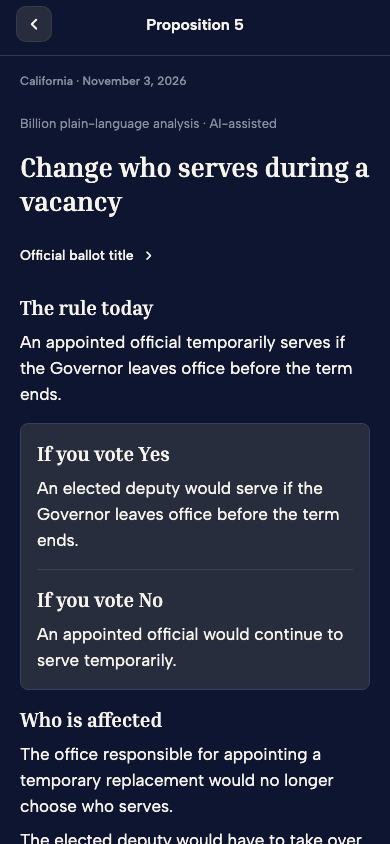
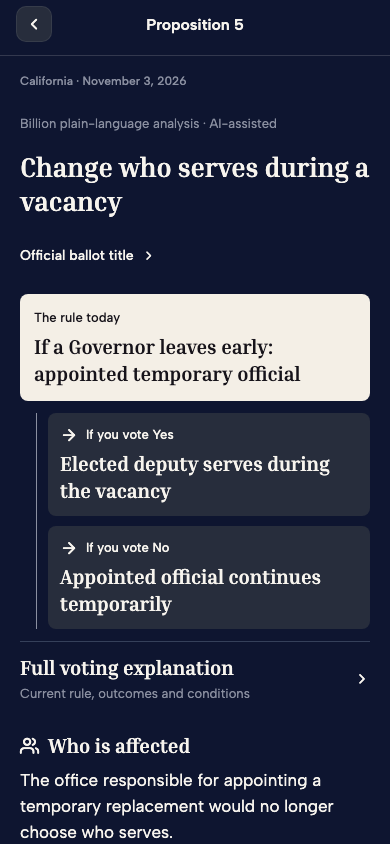
Show reviewed proposition consequences as a neutral decision map

Changed region(s): [[0.0308, 0.3389, 0.9538, 1.0]]

diff --git a/apps/expo/src/components/ballot-evidence/PropositionConsequences.tsx b/apps/expo/src/components/ballot-evidence/PropositionConsequences.tsx
@@ -3,6 +3,7 @@ import { Linking, Pressable, StyleSheet, View } from "react-native";
 
 import type { RouterOutputs } from "@acme/api";
 
+import type { IconName } from "~/components/ui/Icon";
 import { Icon } from "~/components/ui";
 import { fontBody, fontEditorial, DigestPalette as P, sp } from "~/styles";
 import { BallotText as Text } from "./BallotText";
@@ -14,16 +15,42 @@ type Claim = Analysis["yes"];
 
 export function PropositionConsequences({ analysis }: { analysis: Analysis }) {
   const [titleOpen, setTitleOpen] = useState(false);
-  const section = (title: string, claims: Claim[]) => (
+  const section = (title: string, claims: Claim[], icon?: IconName) => (
     <View style={s.section}>
-      <Text accessibilityRole="header" style={s.heading}>
-        {title}
-      </Text>
+      <View style={s.sectionHeading}>
+        {icon && (
+          <View
+            accessibilityElementsHidden
+            importantForAccessibility="no-hide-descendants"
+          >
+            <Icon name={icon} size={19} color={P.inkOnNight} />
+          </View>
+        )}
+        <Text accessibilityRole="header" style={s.heading}>
+          {title}
+        </Text>
+      </View>
       {claims.map((claim, index) => (
         <View key={index} style={s.claim}>
           <Text style={s.body}>{claim.text}</Text>
         </View>
       ))}
+    </View>
+  );
+  const outcome = (vote: "Yes" | "No", claim: Claim) => (
+    <View style={s.mapOutcome}>
+      <View style={s.mapHeading}>
+        <View
+          accessibilityElementsHidden
+          importantForAccessibility="no-hide-descendants"
+        >
+          <Icon name="arrowRight" size={18} color={P.inkOnNight} />
+        </View>
+        <Text accessibilityRole="header" style={s.mapLabel}>
+          If you vote {vote}
+        </Text>
+      </View>
+      <Text style={s.mapConsequence}>{claim.text}</Text>
     </View>
   );
   return (
@@ -51,21 +78,51 @@ export function PropositionConsequences({ analysis }: { analysis: Analysis }) {
         </Pressable>
         {titleOpen && <Text style={s.titleText}>{analysis.officialTitle}</Text>}
       </View>
-      {section("The rule today", [analysis.currentRule])}
-      <View style={s.flow}>
-        {section("If you vote Yes", [analysis.yes])}
-        <View style={s.divider} />
-        {section("If you vote No", [analysis.no])}
-        {analysis.decisionNote && (
-          <>
+      {analysis.decisionMap ? (
+        <View style={s.decisionMap}>
+          <View style={s.mapToday}>
+            <Text accessibilityRole="header" style={s.todayLabel}>
+              The rule today
+            </Text>
+            <Text style={s.todayText}>{analysis.decisionMap.today.text}</Text>
+          </View>
+          <View style={s.mapBranches}>
+            <View
+              style={s.mapSpine}
+              accessibilityElementsHidden
+              importantForAccessibility="no-hide-descendants"
+            />
+            <View style={s.mapChoices}>
+              {outcome("Yes", analysis.decisionMap.yes)}
+              {outcome("No", analysis.decisionMap.no)}
+            </View>
+          </View>
+          {analysis.decisionNote &&
+            section("Also consider", [analysis.decisionNote])}
+          <AnalysisDisclosure
+            title="Full voting explanation"
+            subtitle="Current rule, outcomes and conditions"
+          >
+            {section("The rule today", [analysis.currentRule])}
+            {section("If you vote Yes", [analysis.yes])}
+            {section("If you vote No", [analysis.no])}
+          </AnalysisDisclosure>
+        </View>
+      ) : (
+        <>
+          {section("The rule today", [analysis.currentRule])}
+          <View style={s.flow}>
+            {section("If you vote Yes", [analysis.yes])}
             <View style={s.divider} />
-            {section("Also consider", [analysis.decisionNote])}
-          </>
-        )}
-      </View>
-      {section("Who is affected", analysis.affected)}
+            {section("If you vote No", [analysis.no])}
+            {analysis.decisionNote &&
+              section("Also consider", [analysis.decisionNote])}
+          </View>
+        </>
+      )}
+      {section("Who is affected", analysis.affected, "users")}
       {section("Costs and funding", [analysis.costsAndFunding])}
-      {section("Limits and unknowns", [analysis.uncertainty])}
+      {section("Limits and unknowns", [analysis.uncertainty], "help")}
       <AnalysisDisclosure
         title="How this would work"
         subtitle="What happens next"
@@ -93,6 +150,13 @@ export function PropositionConsequences({ analysis }: { analysis: Analysis }) {
             ["The rule today", analysis.currentRule],
             ["If you vote Yes", analysis.yes],
             ["If you vote No", analysis.no],
+            ...(analysis.decisionMap
+              ? [
+                  ["Decision map: today", analysis.decisionMap.today] as const,
+                  ["Decision map: Yes", analysis.decisionMap.yes] as const,
+                  ["Decision map: No", analysis.decisionMap.no] as const,
+                ]
+              : []),
             ...(analysis.decisionNote
               ? [["Also consider", analysis.decisionNote] as const]
               : []),
@@ -203,6 +267,39 @@ function ClaimSource({
   );
 }
 const s = StyleSheet.create({
+  sectionHeading: { flexDirection: "row", alignItems: "center", gap: 9 },
+  decisionMap: { gap: 12 },
+  mapToday: { backgroundColor: P.paper, padding: 14, borderRadius: 8, gap: 5 },
+  todayLabel: {
+    fontFamily: fontBody.medium,
+    fontSize: 13,
+    lineHeight: 20,
+    color: P.ink,
+  },
+  todayText: {
+    fontFamily: fontEditorial.bold,
+    fontSize: 20,
+    lineHeight: 27,
+    color: P.ink,
+  },
+  mapBranches: { flexDirection: "row", gap: 0, marginLeft: 16 },
+  mapSpine: { width: 12, borderLeftWidth: 1, borderColor: P.quiet },
+  mapChoices: { flex: 1, gap: 10 },
+  mapOutcome: { backgroundColor: P.card, borderRadius: 8, padding: 12, gap: 5 },
+  mapHeading: { flexDirection: "row", gap: 8, alignItems: "center" },
+  mapLabel: {
+    flex: 1,
+    fontFamily: fontBody.medium,
+    fontSize: 13,
+    lineHeight: 20,
+    color: P.inkOnNight,
+  },
+  mapConsequence: {
+    fontFamily: fontEditorial.bold,
+    fontSize: 20,
+    lineHeight: 27,
+    color: P.inkOnNight,
+  },
   officialTitle: { gap: 3 },
   titleTrigger: {
     minHeight: 44,

diff --git a/packages/api/src/lib/proposition-consequences.test.ts b/packages/api/src/lib/proposition-consequences.test.ts
@@ -107,6 +107,13 @@ void test("broken citations, mismatched review revision, duplicate sources and p
   for (const changed of [
     { yes: { text: "Unsupported", sourceIds: ["missing"] } },
     { decisionNote: { text: "Unsupported qualifier", sourceIds: ["missing"] } },
+    {
+      decisionMap: {
+        today: claim("Today"),
+        yes: claim("Yes"),
+        no: { text: "Unsupported map", sourceIds: ["missing"] },
+      },
+    },
     { sources: [...draft.sources, ...draft.sources] },
     { review: { ...draft.review, revision: "old" } },
     { review: { ...draft.review, reviewedAt: "2025-01-01T00:00:00Z" } },
@@ -189,4 +196,25 @@ void test("a reviewed decision qualifier retains its citation in the public resp
     publishedPropositionConsequences(date, measure, [draft]),
   );
   assert.deepEqual(published?.decisionNote, draft.decisionNote);
+});
+
+void test("reviewed decision-map nodes retain citations and reject partial maps", () => {
+  const draft = {
+    ...revision(),
+    decisionMap: {
+      today: claim("Today"),
+      yes: claim("Yes consequence"),
+      no: claim("No consequence"),
+    },
+  };
+  const published = publicPropositionConsequences(
+    publishedPropositionConsequences(date, measure, [draft]),
+  );
+  assert.deepEqual(published?.decisionMap, draft.decisionMap);
+  assert.equal(
+    publishedPropositionConsequences(date, measure, [
+      { ...draft, decisionMap: { today: claim("Today"), yes: claim("Yes") } },
+    ]),
+    null,
+  );
 });

diff --git a/packages/validators/src/proposition-consequences.ts b/packages/validators/src/proposition-consequences.ts
@@ -36,6 +36,13 @@ export const propositionConsequencesSchema = z.object({
   yes: claim,
   no: claim,
   decisionNote: claim.optional(),
+  decisionMap: z
+    .object({
+      today: claim.extend({ text: text.max(160) }),
+      yes: claim.extend({ text: text.max(160) }),
+      no: claim.extend({ text: text.max(160) }),
+    })
+    .optional(),
   implementation: z.array(claim).min(1).max(8),
   affected: z.array(claim).min(1).max(8),
   costsAndFunding: claim,

diff --git a/packages/api/src/lib/proposition-consequences.ts b/packages/api/src/lib/proposition-consequences.ts
@@ -82,6 +82,7 @@ export function publishedPropositionConsequences(
       draft.yes,
       draft.no,
       ...(draft.decisionNote ? [draft.decisionNote] : []),
+      ...(draft.decisionMap ? Object.values(draft.decisionMap) : []),
       ...draft.implementation,
       ...draft.affected,
       draft.costsAndFunding,

diff --git a/docs/proposition-consequences.md b/docs/proposition-consequences.md
@@ -20,4 +20,6 @@ The reading hierarchy puts the headline, current rule and paired voting outcomes
 
 An optional reviewed `decisionNote` puts a material qualifier, such as who repays authorized borrowing, inside the voting comparison. It is a cited explanatory claim subject to the same publication gate, never inferred from a title or created by the client. Adding it to an approved draft requires a new immutable revision and editorial review.
 
+An optional `decisionMap` supplies three concise cited claims (`today`, `yes`, `no`, each at most 160 characters). The UI shows the present rule leading to two equally styled alternatives, with the full voting explanation available beneath it. Each node must preserve material conditions; it is reviewed evidence, not a client-generated summary. All three nodes are required together and pass the same citation gate. Older revisions without the map retain the full prose comparison. Material qualifiers and limits remain visible.
+
 Source disclosures retain the complete text of each cited claim under its supporting source. Section names alone are insufficient when two statements in one section use different evidence. The capture fixtures exercise that case without restoring repeated citation links to the primary reading flow.
